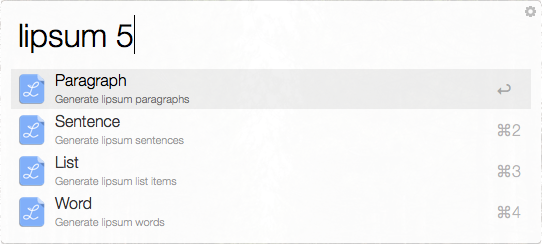
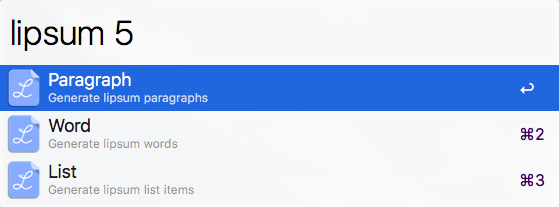
Replace source from freeformatter.com to lipsum.com (fixes #2)
Refactored code and changed source from freeformatter.com to lipsum.com. freeformatter.com changed configurations that no longer made it compatible to extract lorem ipsum text. Dropped the ability to generate sentences.

diff --git a/lipsum.rb b/lipsum.rb
@@ -1,33 +1,75 @@
 require 'open-uri'
 require 'net/http'
+require 'json'
 
-# Default parameters 
-how_many = 1
-mode = 'p'
+def set_params amount, what
+	# Set parameters for lipsum.com 
+	params = {
+		'amount' => "#{amount}",
+		'what' => "#{what}"
+	}
+end
 
-# Set Arguments if they exist
-how_many_arg = ARGV[0] if !ARGV[0].empty?
-how_many = how_many_arg.to_i if !how_many_arg.nil?
+def get_lipsum params
+	url = URI.parse('http://www.lipsum.com/feed/json')
+	resp = Net::HTTP.post_form(url, params)
+	content = resp.body
+end
 
-mode_arg = ARGV[1] if !ARGV[1].empty?
-mode = mode_arg.to_s if !mode_arg.nil?
+def add_extra_spacing content
+	# add extra spaces if string contains \n
+	content.gsub! '\n', '\n\n' if content.include? '\n'
+	content
+end
 
+def parse_content content
+	content = JSON.parse(content)
+	content["feed"]["lipsum"]
+end
 
-# Set parameters for freeformatter 
-params = {
-	'site' => 'lorem-ipsum', 
-	'mode' => "#{mode}", 
-	'howMany' => "#{how_many}",
-	'size' => 'SMALL', 
-	'includeHtml' => 'false' 
-}
+def remove_blah content
+	content = resp.body.gsub(/<\/\li>/, "\n").gsub(/<\/?[^>]*>/, "") if what == 'l'
+	content.strip
+end
 
-# Post and set content
-url = URI.parse('http://www.freeformatter.com/lorem-ipsum-generator.html')
-resp = Net::HTTP.post_form(url, params)
-content = resp.body
-content = resp.body.gsub(/<\/\li>/, "\n").gsub(/<\/?[^>]*>/, "") if mode == 'l'
-content = content.strip
+def prepare_content content
+	spaced_content = add_extra_spacing content
+	parse_content spaced_content
+end
 
-# Return content
-print content
+def return_content content
+	print content
+end
+
+def generate_lipsum amount, what
+	params = set_params amount, what
+	raw_content = get_lipsum params
+	content = prepare_content raw_content
+	return_content content
+end
+
+def set_amount
+	# Default arg
+	amount = 1
+	# Set Argument if they exist
+	amount_arg = ARGV[0] if !ARGV[0].empty?
+	amount = amount_arg.to_i if !amount_arg.nil?
+	return amount
+end
+
+def set_mode
+	# Default arg
+	what = 'paras'
+	# Set Argument if they exist
+	what_arg = ARGV[1] if !ARGV[1].empty?
+	what = what_arg.to_s if !what_arg.nil?
+	return what
+end
+
+def init
+	amount = set_amount
+	what = set_mode
+	generate_lipsum amount, what
+end
+
+init()

diff --git a/README.md b/README.md
@@ -1,19 +1,18 @@
 # Generate lorem ipsum text from Alfred 
-This workflow will generate lorem ipsum text from the lorem ipsum generator at [Free Formater](freeformatter.com) 
+This workflow will generate lorem ipsum text from the lorem ipsum generator at [Lipsum.com](http://www.lipsum.com/) 
 
 ## Ussage
 Ussage: lipsum [query]
 
-There are four items to pick from:
+There are three items to pick from:
 - Paragraph
-- Sentence
 - List
 - Word
 
 ## Arguments
 By default the workflow will generate 1 item. Optionally, pass in the number of items you want to generate as an argument.
 
-` lipsum 5`
+`lipsum 5`
 
 ![Alfred lorem ipsum screen shot](/screenshots/lipusm-screenshot.png?raw=true "Alfred lorem ipsum screen shot")
 
